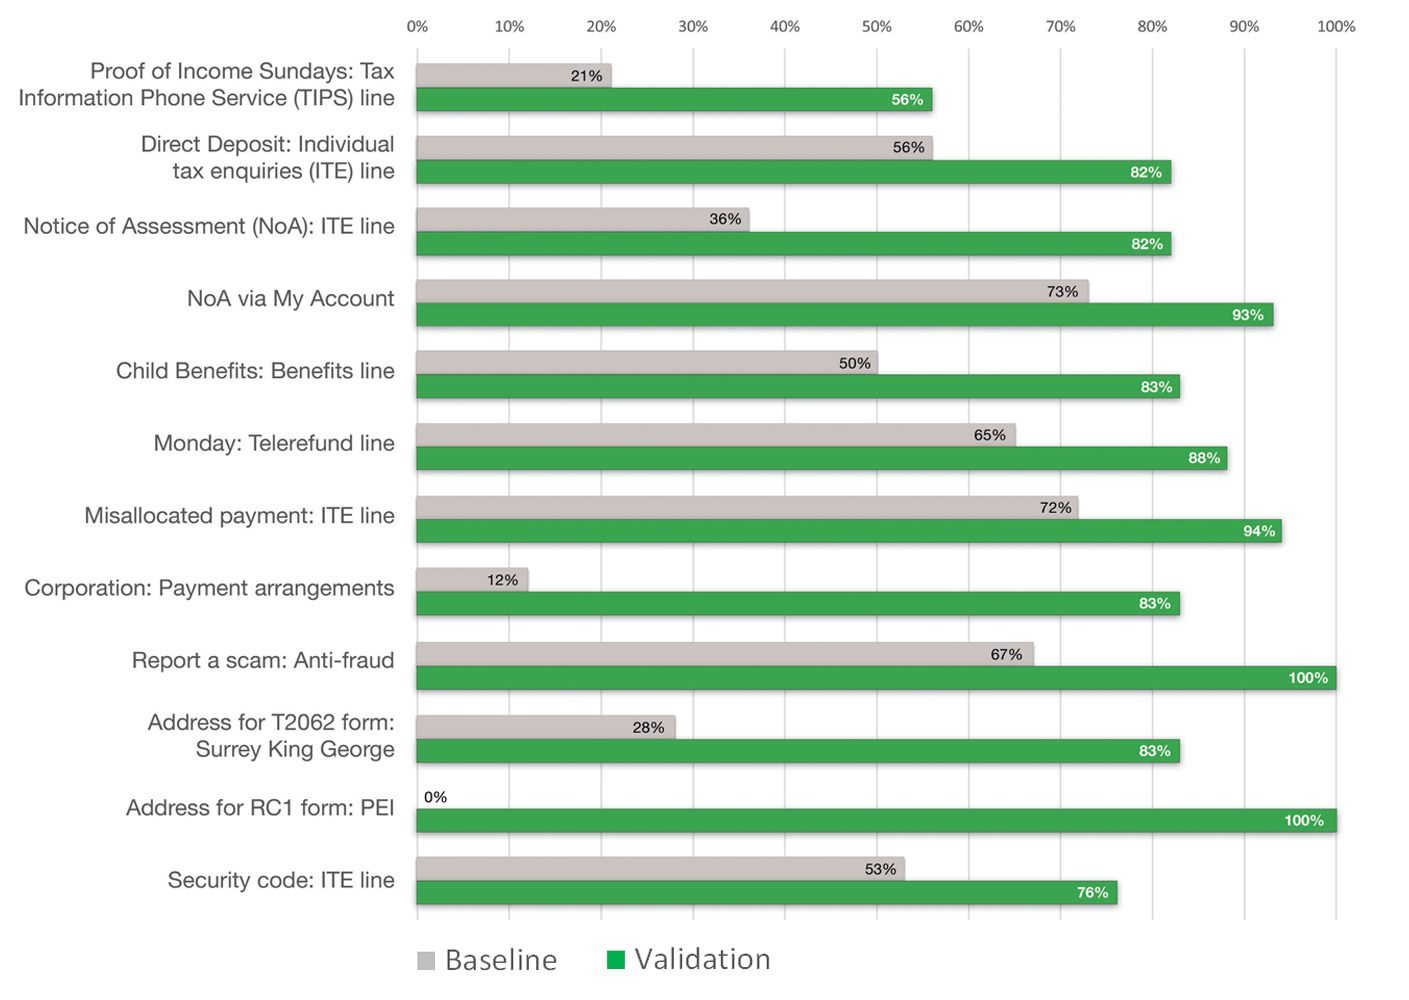
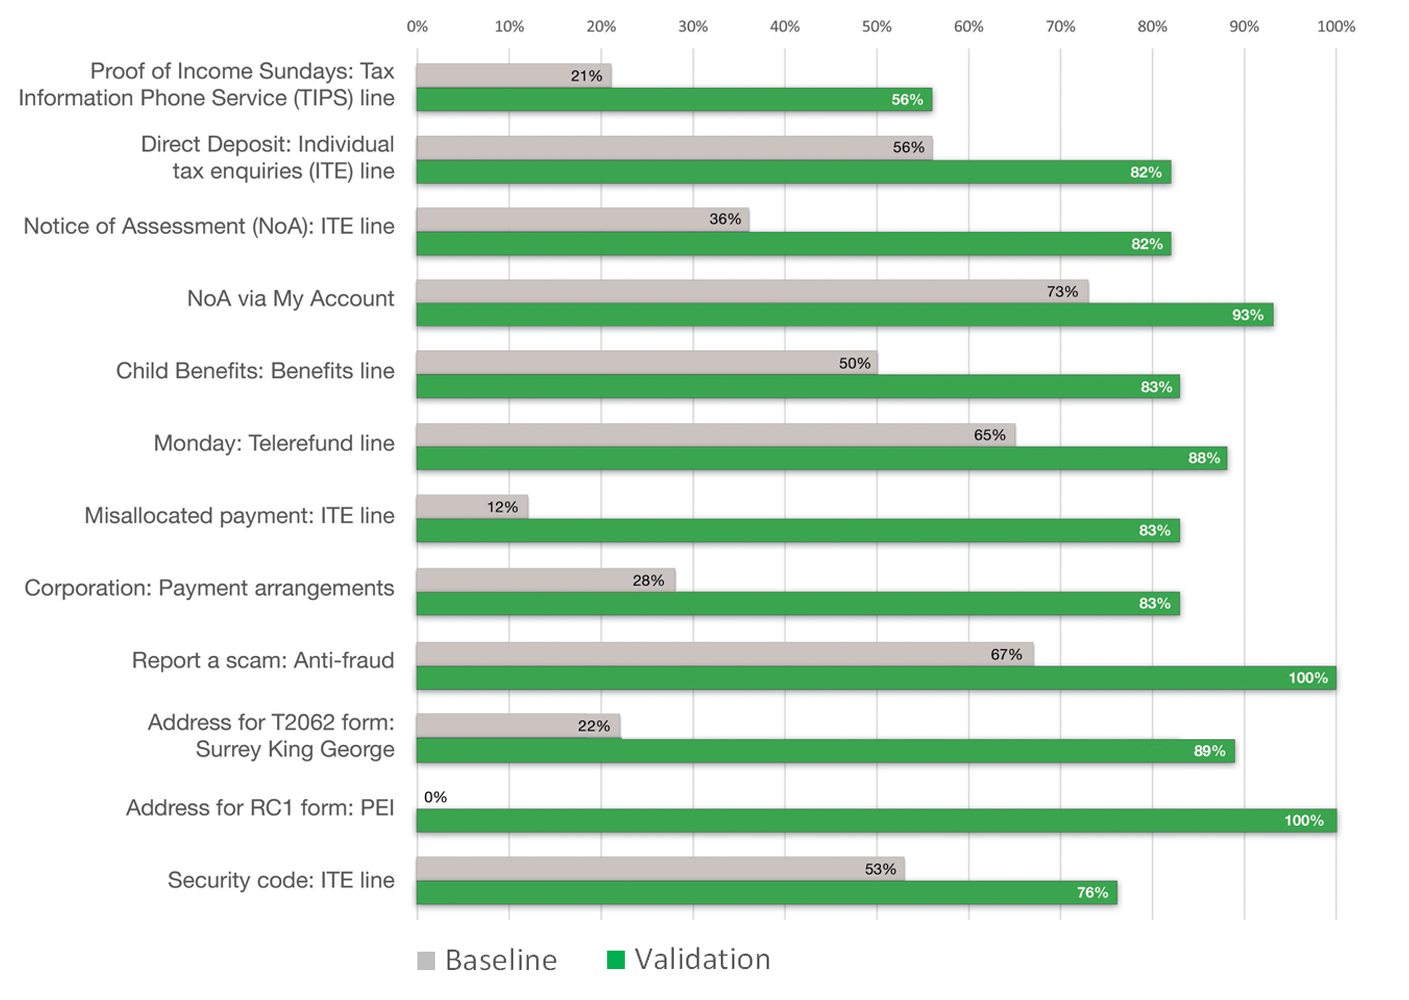
all the fixes

diff --git a/draft-research/arc-contactez-nous-resume-recherche.html b/draft-research/arc-contactez-nous-resume-recherche.html
@@ -89,15 +89,17 @@ h2 {
 
 <h2>Établissement d’une référence</h2>
 
-<p>Les normes numériques du gouvernement du Canada commencent avec «&nbsp;conception avec les utilisateurs&nbsp;». Cette façon de faire met l’accent sur la recherche et la mise à l’essai auprès des utilisateurs, ce que le <abbr title="Bureau de la transformation numérique">BTN</abbr> fait depuis le début. Notre processus est centré sur un test de référence pour mesurer le degré de réussite des utilisateurs avec les scénarios de tâches principales de la conception actuelle. Nous voulons cerner les problèmes qui les empêchent de réussir. Comme nous voulions mettre à l’essai des scénarios de tâches tant pour les particuliers que pour les entreprises, nous avons recruté des propriétaires de petites entreprises canadiennes comme participants aux séances de recherche. Les propriétaires d’entreprise connaissent bien les défis commerciaux et doivent aussi faire leur déclaration de revenus des particuliers.</p>
+<p>Les <a href="https://www.canada.ca/fr/gouvernement/systeme/gouvernement-numerique/normes-numeriques-gouvernement-canada.html">normes numériques du gouvernement du Canada</a> commencent avec «&nbsp;conception avec les utilisateurs&nbsp;». Cette façon de faire met l’accent sur la recherche et la mise à l’essai auprès des utilisateurs, ce que le <abbr title="Bureau de la transformation numérique">BTN</abbr> fait depuis le début. Notre processus est centré sur un test de référence pour mesurer le degré de réussite des utilisateurs avec les scénarios de tâches principales de la conception actuelle. Nous voulons cerner les problèmes qui les empêchent de réussir. Comme nous voulions mettre à l’essai des scénarios de tâches tant pour les particuliers que pour les entreprises, nous avons recruté des propriétaires de petites entreprises canadiennes comme participants aux séances de recherche. Les propriétaires d’entreprise connaissent bien les défis commerciaux et doivent aussi faire leur déclaration de revenus des particuliers.</p>
 
 <p>Nos participants reflétaient l’éventail des compétences numériques chez les propriétaires d’entreprises canadiennes. Quelques participants qui travaillent surtout sur le terrain avec leurs clients ne savaient pas comment copier/coller du texte d’une page Web à une autre. D’autres étaient des utilisateurs en ligne experts qui gèrent leur propre site Web. </p>
 
 <p>En plus de mesurer les taux de réussite des tâches, l’équipe a analysé le comportement des utilisateurs en regardant des vidéos des tests. Cela nous a permis de voir où les utilisateurs ont éprouvé des difficultés. L’une des grandes difficultés que nous avons observées était que les utilisateurs n’arrivaient pas toujours à accéder à la page des numéros de téléphone. Ils devaient d’abord cliquer sur le lien Demandes de renseignements par téléphone, puis accéder à une fenêtre superposée dans laquelle ils devaient sélectionner le type de demande de renseignements. Lorsqu’ils réussissaient à atteindre la page des numéros de téléphone, ils sélectionnaient souvent le mauvais numéro de téléphone à partir de la longue liste.
 </p>
 
+<figure>
 <img class="img-responsive" alt="Fenêtre superposée du numéro de téléphone." src="../images/arc-contactez-nous/fenetre-superposee.png"/>
-
+<figcaption>Une capture d'écran de la fenêtre superposée qui s'affiche lorsque les utilisateurs cliquent sur le lien Demandes de renseignements par téléphone.</figcaption>
+</figure>
 
 <h2>Refonte de la conception visant à aider les utilisateurs à trouver le bon numéro de téléphone</h2>
 
@@ -159,7 +161,7 @@ h2 {
 	 </tr><tr><td>Avis de cotisation (ADC) - Ligne des demandes de renseignements sur l'impôt des particuliers</td>
 		 <td>36 %</td>
 		 <td>82 %</td>
-	 </tr><tr><td>ADC par l’intermédiaire de Mon dossier</td>
+	 </tr><tr><td><abbr title="Avis de cotisation">ADC</abbr> par l’intermédiaire de Mon dossier</td>
 		 <td>73 %</td>
 		 <td>93 %</td>
 		 <tr><td>Allocation canadienne pour enfants - Ligne des prestations</td>
@@ -176,12 +178,12 @@ h2 {
 		 <td>83 %</td>
 	 </tr>
 	 <tr><td>Entreprise - Ententes de paiement</td>
-		 <td>12 %</td>
+		 <td>28 %</td>
 		 <td>83 %</td>
 	 </tr>
 	 <tr><td>Signaler une arnaque - Lutte contre la fraude</td>
 		 <td>67 %</td>
-		 <td>10 0%</td>
+		 <td>100 %</td>
 	 </tr>
 	 <tr><td>Address du formulaire T2062 - Surrey King George</td>
 		 <td>22 %</td>
@@ -227,7 +229,7 @@ h2 {
 
 <ul>
 <li>Lisez notre billet de blogue&nbsp;:&nbsp;<a href="#">Conseils de conception de contenu tirés de nos projets d’optimisation du contenu «&nbsp;Conseils aux voyageurs et avertissements&nbsp;» et «&nbsp;Communiquer avec l’ARC&nbsp;»</a></li>
-<li><a href="https://blogue.canada.ca/pages/apercu-projet.html#projets">Consultez les aperçus de nos autres projets</a> avec nos partenaires</li>
+<li>Consultez les aperçus de nos autres <a href="https://blogue.canada.ca/pages/apercu-projet.html#projets">projets avec nos partenaires</a> </li>
 </ul>
 
 
